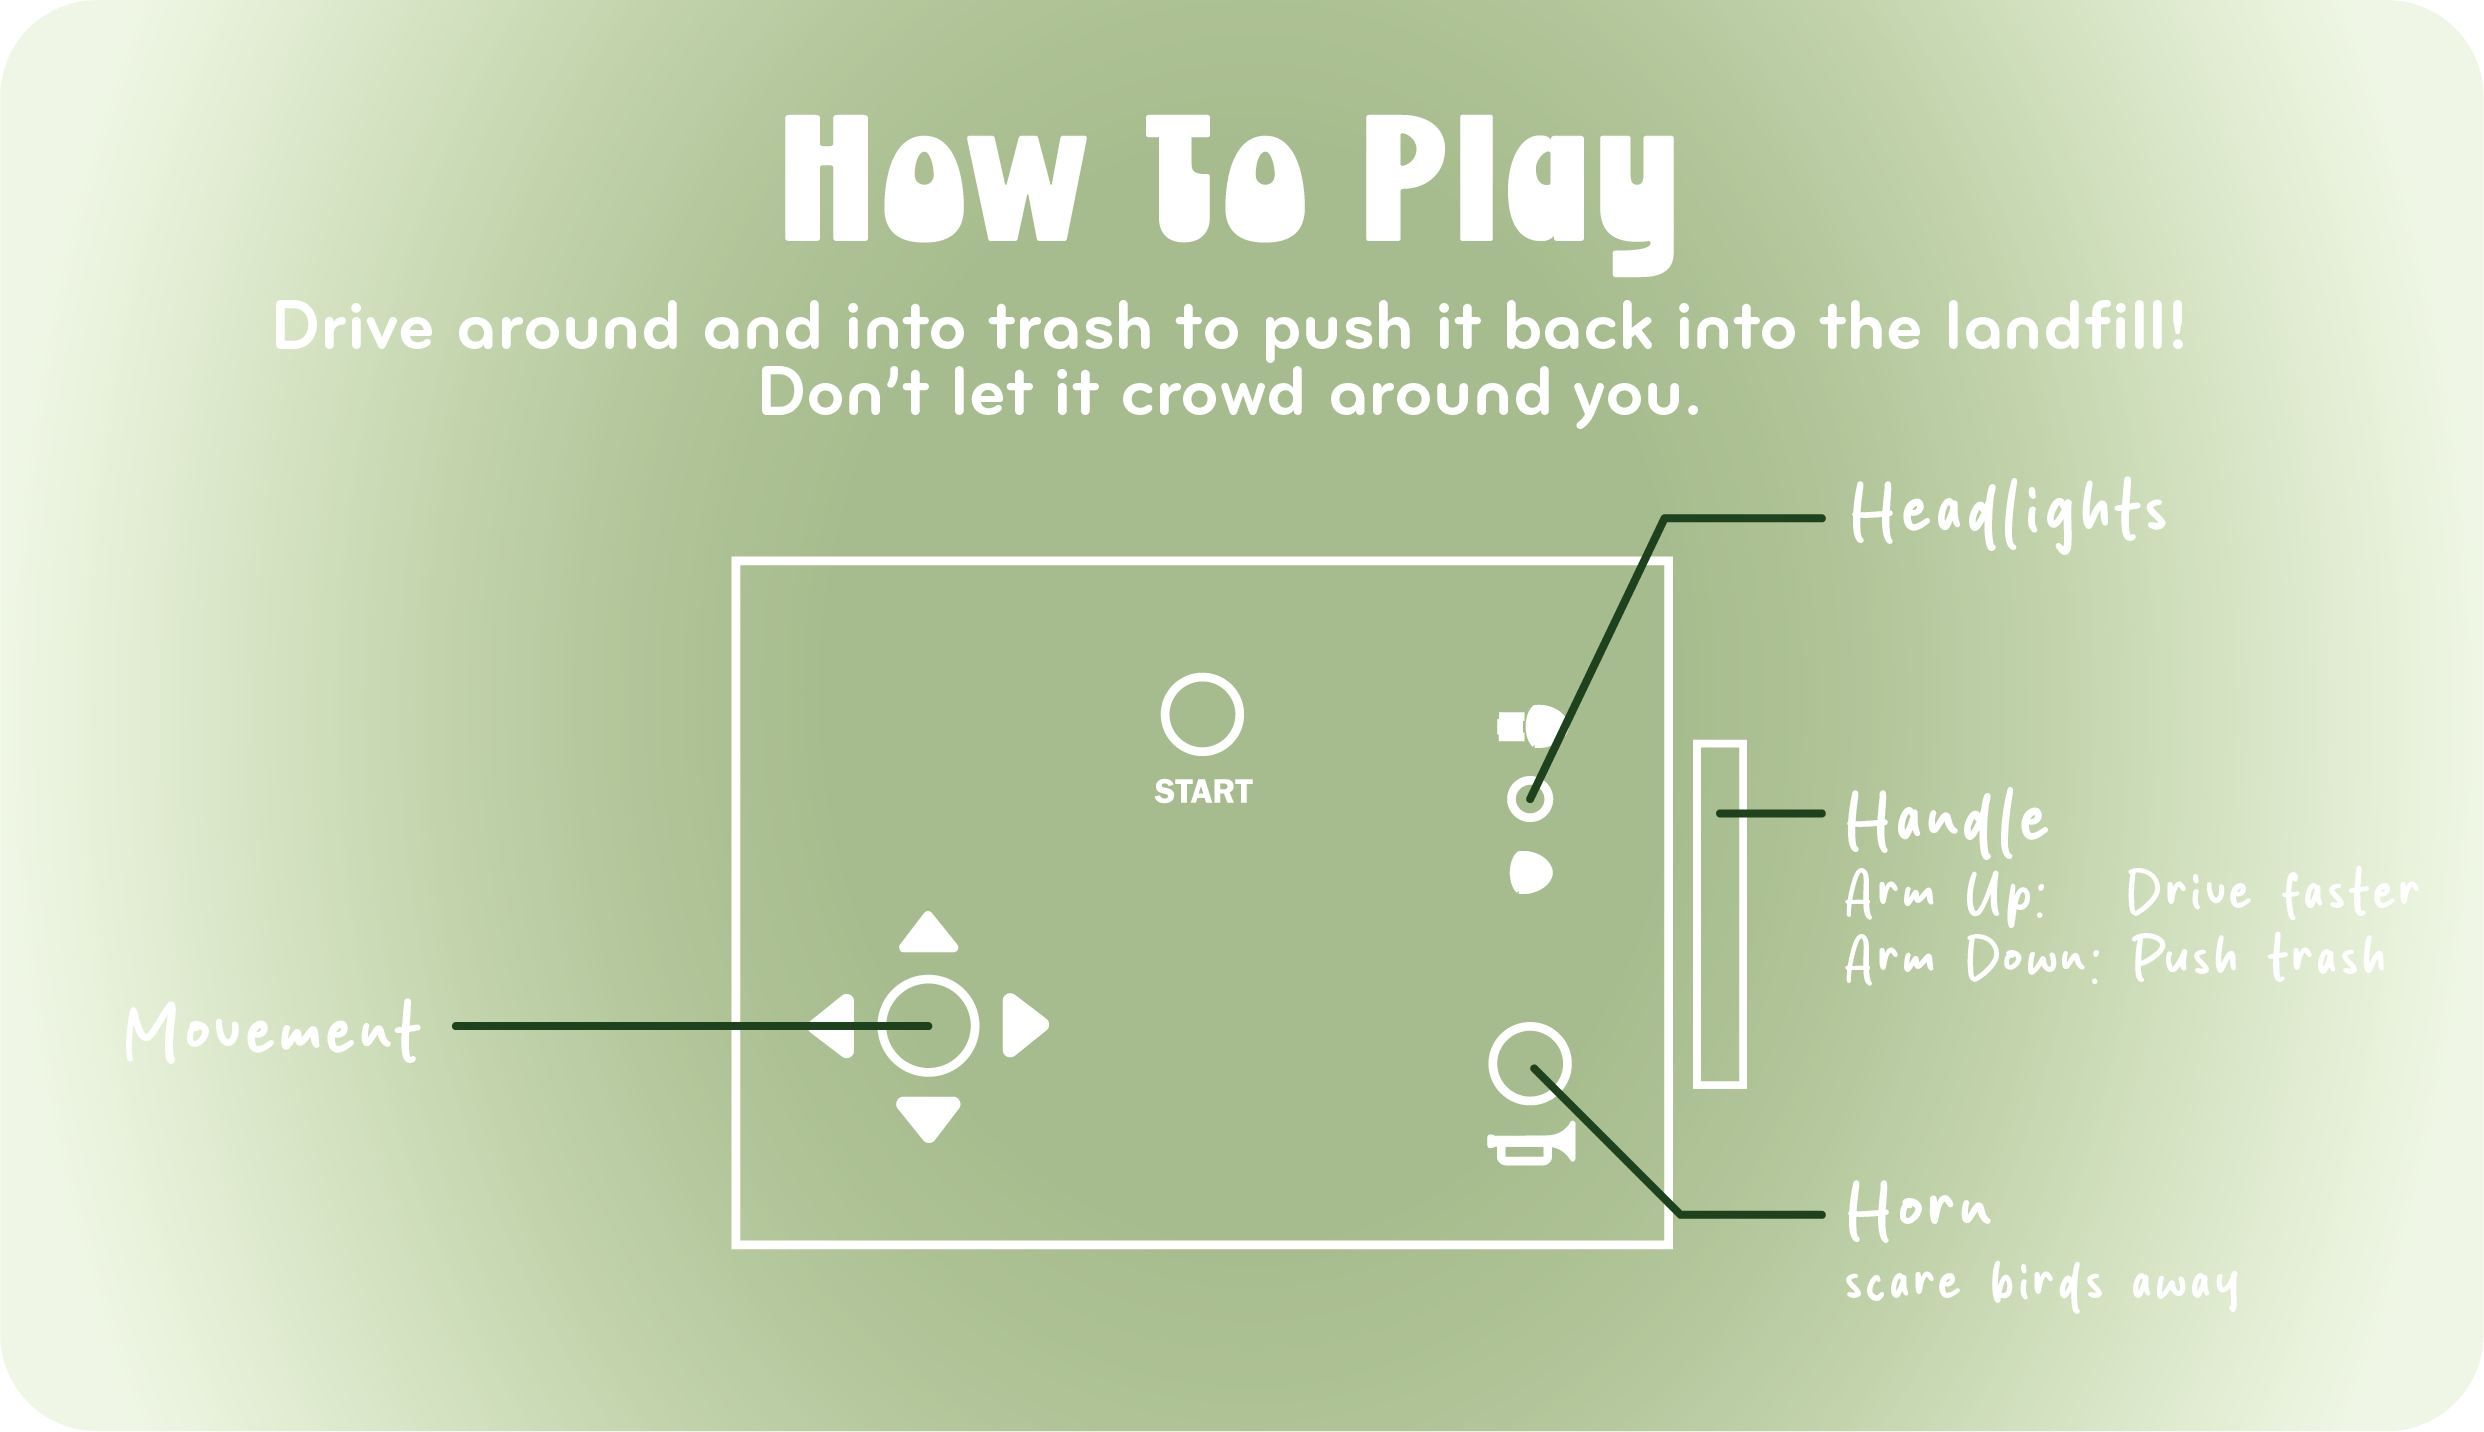
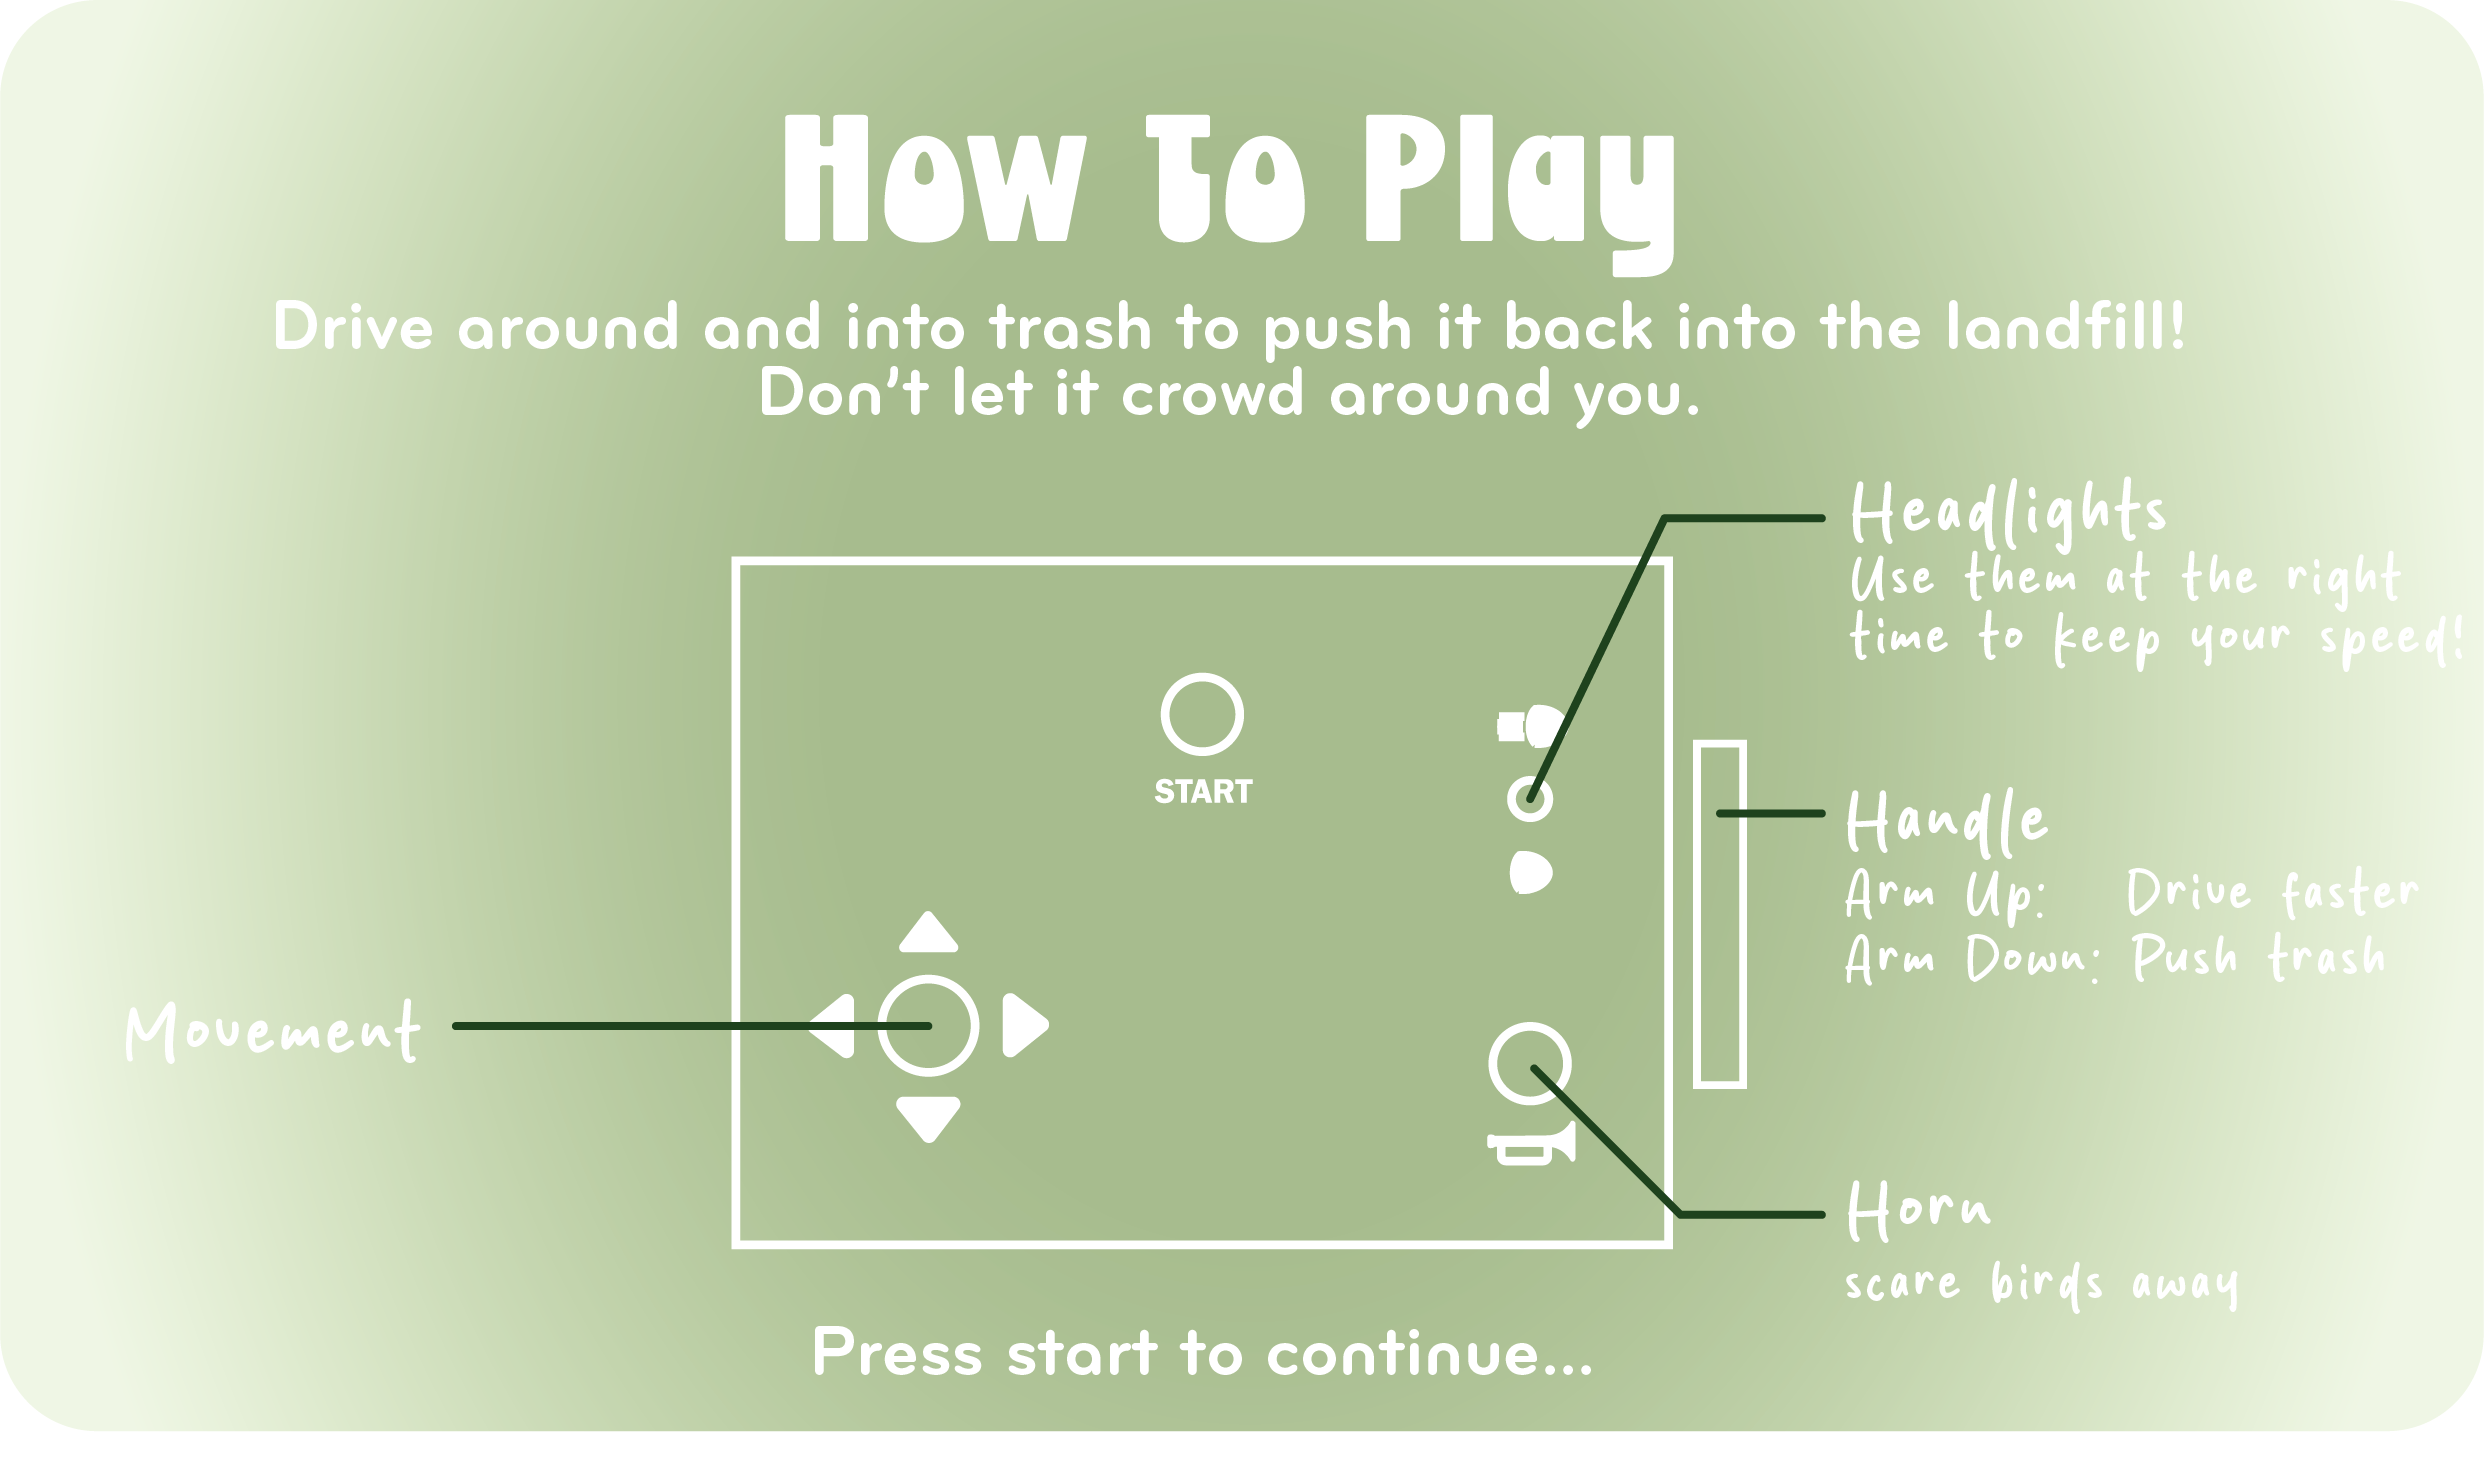
console check

diff --git a/Assets/Scripts/ArduinoController.cs b/Assets/Scripts/ArduinoController.cs
@@ -6,6 +6,7 @@ using UnityEngine;
 
 // Reads PRESS:W / RELEASE:W lines from a custom Arduino controller.
 // Gameplay should go through GameInput so keyboard, gamepad, and Arduino all work.
+// Connection and each press/release are logged to the Unity Console.
 [DefaultExecutionOrder(-300)]
 public class ArduinoController : MonoBehaviour
 {
@@ -370,6 +371,7 @@ public class ArduinoController : MonoBehaviour
         string[] parts = line.Split(':');
         if (parts.Length != 2)
         {
+            Debug.Log("ArduinoController: read \"" + line + "\"");
             return;
         }
 
@@ -377,6 +379,7 @@ public class ArduinoController : MonoBehaviour
         string key = NormalizeKey(parts[1]);
         if (key.Length == 0)
         {
+            Debug.Log("ArduinoController: read \"" + line + "\"");
             return;
         }
 
@@ -385,11 +388,52 @@ public class ArduinoController : MonoBehaviour
             if (heldKeys.Add(key))
             {
                 pressedThisFrame.Add(key);
+                Debug.Log("ArduinoController: pressed " + DescribeControl(key, true));
             }
         }
         else if (action == "RELEASE")
         {
-            heldKeys.Remove(key);
+            if (heldKeys.Remove(key))
+            {
+                Debug.Log("ArduinoController: released " + DescribeControl(key, false));
+            }
+        }
+        else
+        {
+            Debug.Log("ArduinoController: read \"" + line + "\"");
+        }
+    }
+
+    static string DescribeControl(string key, bool pressed)
+    {
+        switch (key)
+        {
+            case "W":
+                return "up / forward";
+            case "S":
+                return "down / reverse";
+            case "A":
+                return "left";
+            case "D":
+                return "right";
+            case "UP":
+            case "UPARROW":
+                return pressed ? "arm switch (lowers the arm)" : "arm switch (raises the arm)";
+            case "DOWN":
+            case "DOWNARROW":
+                return "down switch";
+            case "LEFT":
+            case "LEFTARROW":
+                return "horn";
+            case "RIGHT":
+            case "RIGHTARROW":
+                return "headlights";
+            case "ENTER":
+            case "RETURN":
+            case "NUMPADENTER":
+                return "confirm";
+            default:
+                return key;
         }
     }
 
